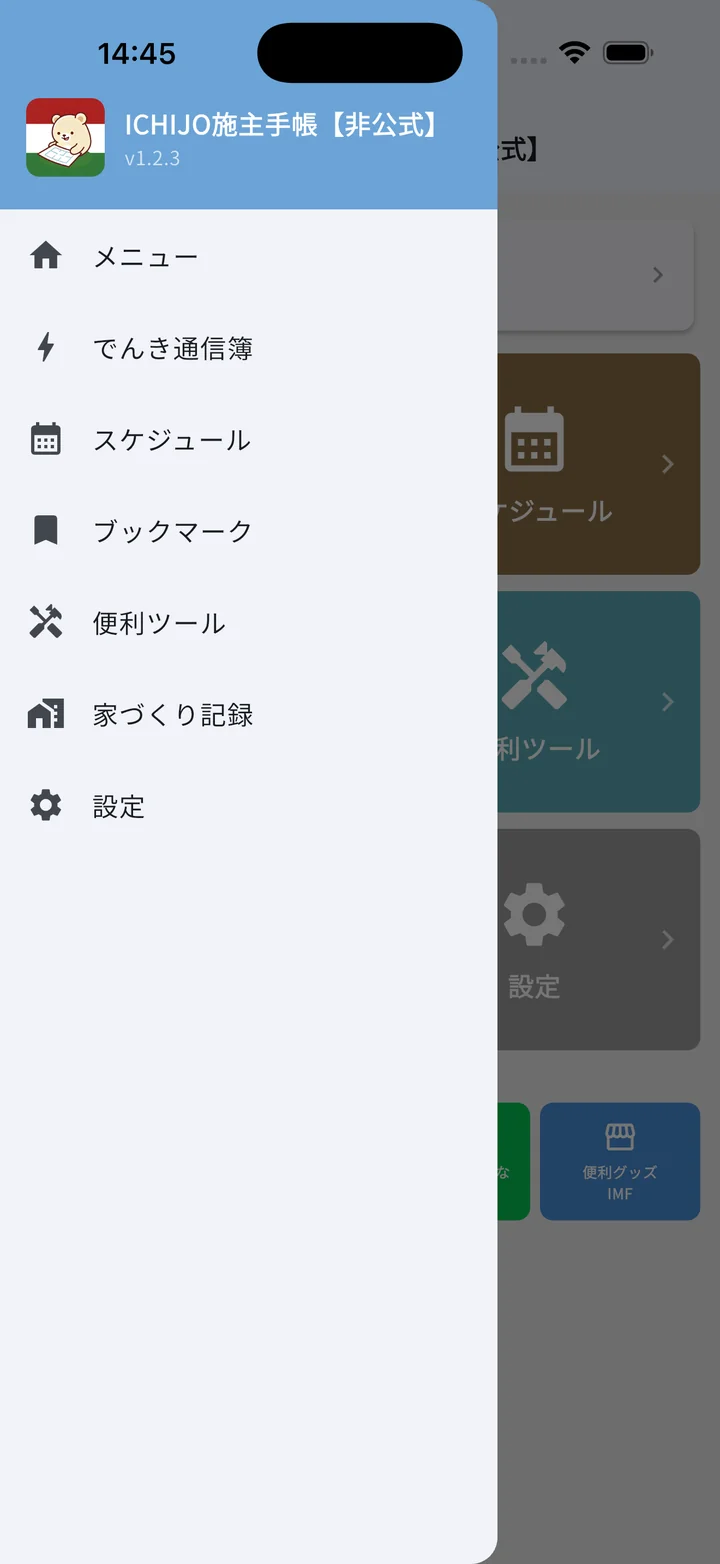
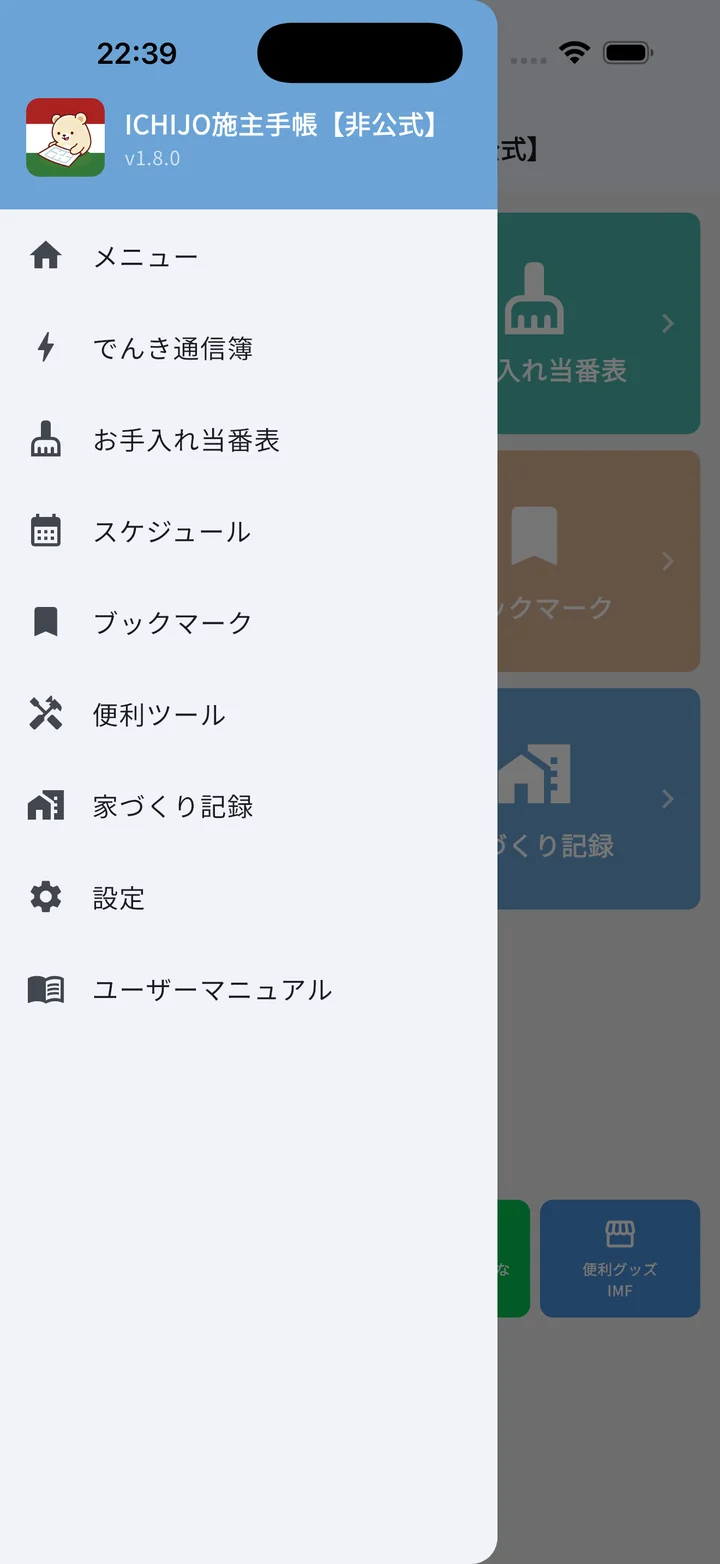
docs: マニュアルに「お手入れ当番表」を追加 (v1.8.0) (#6)
* docs: お手入れ当番表セクションを追加 (v1.8.0)

- お手入れ当番表の章を新設（画面構成/追加/消し込み/詳細シート/編集/部屋/消耗品/通知/操作リファレンス、スクショ13枚）
- 暮らしモード 7 タイル化に伴いホーム/サイドメニュー/便利ツール/設定の記述とスクショを更新
- 機能マップ・概要・目次に項目追加

* docs: 消耗品の編集フォームと購入リンクの説明を追加

* docs: 詳細シートのスクショを購入リンク表示ありに差し替え

* docs: 通知セクションに実際の通知バナーのスクショを追加

---------

diff --git a/docs/manual.html b/docs/manual.html
@@ -645,6 +645,20 @@
     <li class="sub"><a href="#electricity-actions">操作リファレンス</a></li>
   </ul>
 
+  <h4>お手入れ当番表</h4>
+  <ul>
+    <li><a href="#maintenance">お手入れ当番表</a></li>
+    <li class="sub"><a href="#maintenance-overview">画面構成</a></li>
+    <li class="sub"><a href="#maintenance-add">お手入れの追加</a></li>
+    <li class="sub"><a href="#maintenance-done">実施の記録（消し込み）</a></li>
+    <li class="sub"><a href="#maintenance-detail">詳細シート</a></li>
+    <li class="sub"><a href="#maintenance-edit">編集画面</a></li>
+    <li class="sub"><a href="#maintenance-rooms">部屋の管理</a></li>
+    <li class="sub"><a href="#maintenance-consumables">消耗品と在庫</a></li>
+    <li class="sub"><a href="#maintenance-notifications">通知</a></li>
+    <li class="sub"><a href="#maintenance-actions">操作リファレンス</a></li>
+  </ul>
+
   <h4>マイページ</h4>
   <ul>
     <li><a href="#mypage">マイページ</a></li>
@@ -709,6 +723,7 @@
   <a href="#memo" style="--tile-color:#E07B54"><div class="fmap-icon">📝</div><strong>ウチメモ+</strong><small>画面に直接ピンメモ</small></a>
   <a href="#schedule" style="--tile-color:#8B6F47"><div class="fmap-icon">📅</div><strong>スケジュール</strong><small>家づくり工程をカウントダウン</small></a>
   <a href="#electricity" style="--tile-color:#E8B931"><div class="fmap-icon">⚡</div><strong>でんき通信簿</strong><small>太陽光・蓄電池の通信簿</small></a>
+  <a href="#maintenance" style="--tile-color:#4DB6AC"><div class="fmap-icon">🧹</div><strong>お手入れ当番表</strong><small>定期お手入れの消し込み</small></a>
   <a href="#mypage" style="--tile-color:#4A6FA5"><div class="fmap-icon">👤</div><strong>マイページ</strong><small>家のスペック・SNSシェア</small></a>
 </div>
 
@@ -722,7 +737,7 @@
 <h2 id="getting-started">はじめに</h2>
 
 <h3 id="overview">このアプリについて</h3>
-<p><strong>ICHIJO施主手帳（非公式）</strong>は、一条工務店の施主が自分の打ち合わせを効率化するために作った非公式アプリです。一条公式「iサポ」で届くPDFを取り込むだけで、以下のことが片手でできます。打ち合わせ中はもちろん、入居後にも便利な機能（でんき通信簿・新居生活カウンター等）を順次拡充中です。</p>
+<p><strong>ICHIJO施主手帳（非公式）</strong>は、一条工務店の施主が自分の打ち合わせを効率化するために作った非公式アプリです。一条公式「iサポ」で届くPDFを取り込むだけで、以下のことが片手でできます。打ち合わせ中はもちろん、入居後にも便利な機能（でんき通信簿・お手入れ当番表・新居生活カウンター等）を順次拡充中です。</p>
 <ul>
   <li><strong>ドキュメント管理</strong>：図面番号ベースでグループ化</li>
   <li><strong>図面チェック</strong>：CAD・電気図面のピクセル差分を色分け表示</li>
@@ -733,6 +748,7 @@
   <li><strong>スケジュール</strong>：家づくり工程のタイムライン＆カウントダウン</li>
   <li><strong>ホームウィジェット</strong>：端末ホーム画面にカウントダウン表示</li>
   <li><strong>でんき通信簿</strong>（入居後）：太陽光・蓄電池の経済効果を可視化</li>
+  <li><strong>お手入れ当番表</strong>（入居後）：定期お手入れの消し込み管理・消耗品在庫・通知</li>
   <li><strong>便利ツール</strong>：湿度計算、外部リンク集など</li>
 </ul>
 
@@ -835,12 +851,13 @@
   </tbody>
 </table>
 
-<h3 id="home-living">暮らしモード（6タイル）</h3>
+<h3 id="home-living">暮らしモード（7タイル）</h3>
 <p>入居後のオーナー向けに、打ち合わせ系機能を隠した簡潔なレイアウト。</p>
 <table>
   <thead><tr><th>色</th><th>タイル</th><th>遷移先</th></tr></thead>
   <tbody>
     <tr><td style="color:#E8B931">●</td><td><a href="#electricity">でんき通信簿</a></td><td>でんき通信簿</td></tr>
+    <tr><td style="color:#4DB6AC">●</td><td><a href="#maintenance">お手入れ当番表</a></td><td>お手入れ当番表</td></tr>
     <tr><td style="color:#8B6F47">●</td><td><a href="#schedule">スケジュール</a></td><td>スケジュール一覧</td></tr>
     <tr><td style="color:#DEB896">●</td><td><a href="#bookmark">ブックマーク</a></td><td>ブックマーク一覧</td></tr>
     <tr><td style="color:#5CABB5">●</td><td><a href="#tools">便利ツール</a></td><td>ツール一覧</td></tr>
@@ -887,7 +904,7 @@
 <ul>
   <li>ヘッダー：アプリ名＋バージョン番号＋アイコン</li>
   <li>メニュー（家づくりモード時）：ドキュメント管理／PDF取り込み／見積り管理／図面チェック／仕様書チェック／ウチメモ+／ブックマーク／スケジュール／便利ツール／設定</li>
-  <li>メニュー（暮らしモード時）：でんき通信簿／スケジュール／ブックマーク／便利ツール／家づくり記録／設定</li>
+  <li>メニュー（暮らしモード時）：でんき通信簿／お手入れ当番表／スケジュール／ブックマーク／便利ツール／家づくり記録／設定</li>
 </ul>
 
 <div class="shot-grid">
@@ -2979,8 +2996,204 @@
 </div>
 
 <!-- ═══════════════════════════════════════════════════════ -->
-<!-- 便利ツール                                               -->
+<!-- お手入れ当番表                                           -->
 <!-- ═══════════════════════════════════════════════════════ -->
+<h2 id="maintenance">お手入れ当番表</h2>
+<div class="shot-grid">
+  <figure class="shot-phone">
+    <img src="images/home_highlight_maintenance.webp" alt="ホーム画面でお手入れ当番表タイルを選択" width="720" height="1378" loading="lazy" decoding="async">
+    <figcaption>ホーム（暮らしモード）から「お手入れ当番表」タイルをタップ</figcaption>
+  </figure>
+  <figure class="shot-phone">
+    <img src="images/maintenance_list.webp" width="720" height="1564" alt="お手入れ当番表 一覧（緊急度ビュー）" loading="lazy" decoding="async">
+    <figcaption>一覧画面（緊急度ビュー）</figcaption>
+  </figure>
+</div>
+
+<p>換気フィルターやレンジフードなど、忘れがちなおうちの定期お手入れをワンタップで記録できる機能です。よくあるお手入れ42項目をプリセット収録。消耗品の在庫管理と、お手入れ時期の通知にも対応しています。</p>
+
+<div class="callout info">
+  <p>お手入れ当番表は <strong>暮らしモード</strong> のホーム画面で前面に出てきますが、家づくりモードでは <strong>便利ツール</strong> 画面からアクセスできます。</p>
+</div>
+
+<h3 id="maintenance-overview">画面構成</h3>
+<ul>
+  <li><strong>ダッシュボード（上部）</strong>：「今すぐ」（期日が今日・期日超過）と「在庫わずか」の件数。タップするとその条件で一覧を絞り込みます（もう一度タップ、またはバナーの「解除」で戻る）</li>
+  <li><strong>ビュー切替</strong>：<strong>緊急度 / 部屋ごと</strong> の2種類</li>
+  <li><strong>緊急度ビュー</strong>：「今日実施」「今すぐ」「もうすぐ」「余裕あり」のセクションに自動分類。「もうすぐ」に入るタイミングは項目の周期に応じて自動で変わります（周期が短い項目ほど直前に表示）</li>
+  <li><strong>部屋ごとビュー</strong>：割り当てた部屋単位のグループ表示</li>
+</ul>
+
+<h4>カードの見方</h4>
+<ul>
+  <li><strong>左端のストライプ色</strong>：緊急度（赤=今すぐ／オレンジ=もうすぐ／緑=余裕あり／青緑=今日実施）</li>
+  <li><strong>右上のピル</strong>：「今日」「あと◯日」「◯日超過」の残日数</li>
+  <li><strong>チップ</strong>：割り当てた部屋と消耗品の在庫数。在庫が「残りわずかの目安」以下になると赤く表示されます</li>
+  <li><strong>下部のバー</strong>：次回予定日までの進み具合＋右端に予定日</li>
+</ul>
+
+<div class="shot-grid">
+  <figure class="shot-phone">
+    <img src="images/maintenance_list_rooms.webp" width="720" height="1564" alt="お手入れ当番表 一覧（部屋ごとビュー）" loading="lazy" decoding="async">
+    <figcaption>部屋ごとビュー</figcaption>
+  </figure>
+  <figure class="shot-phone">
+    <img src="images/maintenance_menu.webp" width="720" height="1564" alt="右上メニュー（部屋を管理／消耗品を管理／通知時刻）" loading="lazy" decoding="async">
+    <figcaption>右上メニュー</figcaption>
+  </figure>
+</div>
+
+<h3 id="maintenance-add">お手入れの追加</h3>
+<p>一覧右下の <strong>＋</strong> ボタンから追加します。カテゴリ → 項目の2段階で選ぶプリセット（42項目）と、自由入力の「カスタムを追加」が選べます。</p>
+<ul>
+  <li>プリセットの周期はあくまで目安です。追加するときに自由に変更できます</li>
+  <li>項目を選ぶと編集画面が開き、周期・前回実施日・場所・通知などをその場で設定して保存します</li>
+</ul>
+
+<div class="shot-grid">
+  <figure class="shot-phone">
+    <img src="images/maintenance_preset_categories.webp" width="720" height="1564" alt="お手入れを追加（カテゴリ選択）" loading="lazy" decoding="async">
+    <figcaption>カテゴリ選択（10カテゴリ＋カスタム）</figcaption>
+  </figure>
+  <figure class="shot-phone">
+    <img src="images/maintenance_preset_items.webp" width="720" height="1564" alt="お手入れを追加（換気・空調の項目一覧）" loading="lazy" decoding="async">
+    <figcaption>項目選択（例：換気・空調）</figcaption>
+  </figure>
+</div>
+
+<div class="callout info">
+  <p>同じ場所に同じ項目を複数追加すると、「RA排気口フィルター 交換①②」のように自動で番号が付きます。</p>
+</div>
+
+<h3 id="maintenance-done">実施の記録（消し込み）</h3>
+<ul>
+  <li><strong>カードを左にスワイプ</strong>すると「実施した」ボタンが現れます。タップすると今日の日付で記録され、次回予定日が自動計算されます</li>
+  <li>消耗品をリンクした項目は、<strong>在庫も自動で消費</strong>されます（項目ごとに設定した消費数だけ減ります）</li>
+  <li>実施直後に表示されるメッセージの<strong>「取り消す」</strong>で元に戻せます（消費した在庫も戻ります）</li>
+  <li>同じ日に2回目の「実施した」をすると確認ダイアログが出ます。本当に2回実施した場合だけ記録してください</li>
+  <li>今日実施した項目は、緊急度ビュー先頭の「今日実施」セクションに集まります</li>
+</ul>
+
+<h3 id="maintenance-detail">詳細シート</h3>
+<p>カードをタップすると、画面下から詳細シートが開きます。</p>
+<ul>
+  <li><strong>タイトル右のアイコン</strong>：編集（鉛筆）／削除（ゴミ箱）。項目を削除すると実施記録も一緒に消えます（共有している消耗品の在庫は残ります）</li>
+  <li><strong>カウントダウンピル</strong>：次回予定日と残日数</li>
+  <li><strong>消耗品・在庫</strong>：−／＋で在庫を補充・修正できます。「実施した」での自動消費とは別に、買い足したときなどに使います</li>
+  <li><strong>購入ページを開く</strong>：消耗品に<a href="#maintenance-consumables">購入リンク</a>を設定しておくと、ここからブラウザで購入ページを開けます。在庫が切れたらその場で買い足せます</li>
+  <li><strong>下部の「実施した」</strong>：スワイプと同じ消し込み操作</li>
+</ul>
+
+<div class="shot-grid">
+  <figure class="shot-phone">
+    <img src="images/maintenance_detail_sheet.webp" width="720" height="1564" alt="お手入れ詳細シート（在庫±・購入ページを開く・実施した）" loading="lazy" decoding="async">
+    <figcaption>詳細シート（在庫±・購入リンク・実施した）</figcaption>
+  </figure>
+</div>
+
+<h3 id="maintenance-edit">編集画面</h3>
+<p>項目の設定をまとめて変更できます。上部に「次回は ◯◯ ごろ」のプレビューが表示され、周期や前回実施日を変えるとすぐ反映されます。</p>
+<ul>
+  <li><strong>場所</strong>：部屋を割り当てます（指定しない／既存の部屋／新しく作成）</li>
+  <li><strong>周期</strong>：数値＋単位（週／ヶ月／年）</li>
+  <li><strong>前回実施日</strong>：分かれば入力。未設定なら登録日を起点に次回を計算します</li>
+  <li><strong>通知</strong>：しつこく通知／1回通知／通知オフ（詳しくは<a href="#maintenance-notifications">通知</a>へ）</li>
+  <li><strong>予定日の寄せ方</strong>：次回予定日を指定の曜日や土日・祝日に寄せられます（なし／指定曜日／土日祝）</li>
+  <li><strong>消耗品・在庫</strong>：項目で使う消耗品をリンクし、1回の実施で消費する数（×N）を設定。新規の消耗品は「いまある在庫」も入力できます</li>
+  <li><strong>メモ</strong>：自由記入（品番や購入先のひかえなどに）</li>
+</ul>
+
+<div class="shot-grid">
+  <figure class="shot-phone">
+    <img src="images/maintenance_edit_top.webp" width="720" height="1564" alt="お手入れ編集画面（上部：プレビュー・場所・周期・前回実施日・通知）" loading="lazy" decoding="async">
+    <figcaption>編集画面（上：場所・周期・通知）</figcaption>
+  </figure>
+  <figure class="shot-phone">
+    <img src="images/maintenance_edit_bottom.webp" width="720" height="1564" alt="お手入れ編集画面（下部：予定日の寄せ方・消耗品・メモ）" loading="lazy" decoding="async">
+    <figcaption>編集画面（下：寄せ方・消耗品・メモ）</figcaption>
+  </figure>
+</div>
+
+<div class="callout info">
+  <p>プリセット項目は名前とカテゴリが固定です（カスタム項目のみ変更できます）。</p>
+</div>
+
+<h3 id="maintenance-rooms">部屋の管理</h3>
+<p>右上メニューの「部屋を管理」から。プリセット25種（玄関〜庭）＋フロア（1〜3階）＋自由入力で部屋を登録し、お手入れ項目に割り当てられます。</p>
+<ul>
+  <li>同じフロアに同じ部屋を複数作ると「洋室①②」のように自動で番号が付きます</li>
+  <li><strong>タップで編集、長押しで削除</strong>。部屋を削除しても項目は消えず、場所が「指定なし」に戻ります</li>
+</ul>
+
+<div class="shot-grid">
+  <figure class="shot-phone">
+    <img src="images/maintenance_room_manage.webp" width="720" height="1564" alt="部屋を管理（フロア別一覧・割当件数つき）" loading="lazy" decoding="async">
+    <figcaption>部屋を管理（フロア別・割当件数つき）</figcaption>
+  </figure>
+  <figure class="shot-phone">
+    <img src="images/maintenance_room_add.webp" width="720" height="1564" alt="部屋を追加（フロア＋部屋チップ）" loading="lazy" decoding="async">
+    <figcaption>部屋を追加</figcaption>
+  </figure>
+</div>
+
+<h3 id="maintenance-consumables">消耗品と在庫</h3>
+<p>フィルターなどの消耗品は、<strong>在庫がアプリ全体で共有</strong>されます。同じ消耗品を複数の項目にリンクすると、どの項目で実施しても同じ在庫から減ります。</p>
+<ul>
+  <li><strong>消耗品を管理</strong>（右上メニュー）：全消耗品の在庫を一覧し、−／＋でクイック補充。タップで編集、長押しで削除</li>
+  <li><strong>残りわずかの目安</strong>：在庫がこの数以下になると赤く表示され、ダッシュボードの「在庫わずか」に数えられます（はじめは 1、変更できます）</li>
+  <li><strong>購入リンク（任意）</strong>：消耗品の編集画面に通販サイト等の URL を控えておくと、<a href="#maintenance-detail">詳細シート</a>に「購入ページを開く」ボタンが表示されます</li>
+</ul>
+
+<div class="shot-grid">
+  <figure class="shot-phone">
+    <img src="images/maintenance_consumable_manage.webp" width="720" height="1564" alt="消耗品を管理（在庫一覧・在庫わずかは赤字）" loading="lazy" decoding="async">
+    <figcaption>消耗品を管理（在庫わずかは赤字）</figcaption>
+  </figure>
+  <figure class="shot-phone">
+    <img src="images/maintenance_consumable_edit.webp" width="720" height="1564" alt="消耗品を編集（在庫数・残りわずかの目安・購入リンク）" loading="lazy" decoding="async">
+    <figcaption>消耗品を編集（在庫数・目安・購入リンク）</figcaption>
+  </figure>
+</div>
+
+<h3 id="maintenance-notifications">通知</h3>
+<p>お手入れ時期を端末の通知でお知らせします。項目ごとに編集画面で設定します。</p>
+<ul>
+  <li><strong>しつこく通知</strong>：実施を記録するまで、毎日通知します（最大14日間）</li>
+  <li><strong>1回通知</strong>：1回だけ通知します</li>
+  <li><strong>通知オフ</strong>：通知しません</li>
+  <li><strong>何日前に通知</strong>：通知が始まる日を予定日の◯日前にずらせます（0 なら予定日当日から）</li>
+  <li><strong>通知時刻</strong>：すべての項目で共通です。右上メニューの「通知時刻」または編集画面から変更できます（はじめは 9:00）</li>
+  <li><strong>通知をタップ</strong>すると、その項目の詳細シートが直接開きます</li>
+</ul>
+
+<div class="shot-grid">
+  <figure class="shot-phone">
+    <img src="images/maintenance_notification.webp" width="720" height="1564" alt="お手入れ通知の例（項目名と場所が表示される）" loading="lazy" decoding="async">
+    <figcaption>通知の例（項目名＋場所）</figcaption>
+  </figure>
+  <figure class="shot-phone">
+    <img src="images/maintenance_notif_time.webp" width="720" height="1564" alt="通知時刻の変更（タイムピッカー）" loading="lazy" decoding="async">
+    <figcaption>通知時刻の変更（全項目共通）</figcaption>
+  </figure>
+</div>
+
+<div class="callout warn">
+  <p>通知の許可（OSのダイアログ）は、通知をオンにした項目を保存したときや、通知時刻を変更したときに表示されます。許可しなかった場合も、あとからアプリ内の案内で端末の設定画面を開いて変更できます。なお、省電力の仕組みの都合で、通知は設定時刻から数分前後することがあります。</p>
+</div>
+
+<h3 id="maintenance-actions">操作リファレンス</h3>
+<div class="action-box">
+  <div class="action-row"><strong>カードを左にスワイプ</strong><span>「実施した」で消し込み（在庫も自動消費）</span></div>
+  <div class="action-row"><strong>カードをタップ</strong><span>詳細シートを開く</span></div>
+  <div class="action-row"><strong>カードを長押し</strong><span>項目を削除（確認ダイアログ）</span></div>
+  <div class="action-row"><strong>ダッシュボードをタップ</strong><span>「今すぐ」「在庫わずか」で絞り込み（再タップで解除）</span></div>
+  <div class="action-row"><strong>緊急度／部屋ごと</strong><span>一覧の表示切替</span></div>
+  <div class="action-row"><strong>＋ボタン</strong><span>お手入れの追加（プリセット／カスタム）</span></div>
+  <div class="action-row"><strong>右上メニュー</strong><span>部屋を管理／消耗品を管理／通知時刻</span></div>
+  <div class="action-row"><strong>シートのタイトル右アイコン</strong><span>編集（鉛筆）／削除（ゴミ箱）</span></div>
+  <div class="action-row"><strong>部屋・消耗品の行</strong><span>タップで編集、長押しで削除</span></div>
+</div>
+
 <!-- ═══════════════════════════════════════════════════════ -->
 <!-- マイページ                                               -->
 <!-- ═══════════════════════════════════════════════════════ -->
@@ -3226,13 +3439,14 @@
 <h4>家づくりモード時</h4>
 <ul>
   <li><strong>でんき通信簿</strong>（アプリ内）</li>
+  <li><strong>お手入れ当番表</strong>（アプリ内）</li>
   <li><strong>湿度計算ツール</strong>（アプリ内）</li>
   <li><strong>熱負荷計算ツール</strong>（外部：UA値から熱負荷をシミュレーション）</li>
   <li><strong>エアコン仕様比較表</strong>（外部：一条で選べるエアコンのスペック一覧）</li>
 </ul>
 
 <h4>暮らしモード時</h4>
-<p>暮らしモードでは <strong>でんき通信簿</strong> がホーム画面のタイルとして前面に出るため、便利ツール一覧には含まれません。それ以外のツールは共通です。</p>
+<p>暮らしモードでは <strong>でんき通信簿</strong> と <strong>お手入れ当番表</strong> がホーム画面のタイルとして前面に出るため、便利ツール一覧には含まれません。それ以外のツールは共通です。</p>
 
 <div class="shot-grid">
   <figure class="shot-phone">
@@ -3241,11 +3455,11 @@
   </figure>
   <figure class="shot-phone">
     <img src="images/tools_list.webp" width="720" height="1564" alt="便利ツール一覧（家づくりモード）" loading="lazy" decoding="async">
-    <figcaption>家づくりモード版（でんき通信簿あり）</figcaption>
+    <figcaption>家づくりモード版（でんき通信簿・お手入れ当番表あり）</figcaption>
   </figure>
   <figure class="shot-phone">
     <img src="images/tools_list_living.webp" width="720" height="1564" alt="便利ツール一覧（暮らしモード）" loading="lazy" decoding="async">
-    <figcaption>暮らしモード版（でんき通信簿なし）</figcaption>
+    <figcaption>暮らしモード版（でんき通信簿・お手入れ当番表なし）</figcaption>
   </figure>
 </div>
 
@@ -3402,7 +3616,7 @@
 <p>家づくりモード ↔ 暮らしモードを切り替えるトグルスイッチ。切り替えるとホーム画面のタイル構成、サイドメニュー、便利ツール一覧が変わります。</p>
 <ul>
   <li><strong>家づくりモード</strong>（契約〜引き渡しまでの施主向け）：10タイル（ドキュメント管理・図面チェック・見積り管理 等を前面に）</li>
-  <li><strong>暮らしモード</strong>（入居後向け）：6タイル（でんき通信簿・スケジュール・家づくり記録 等を前面に、打ち合わせ系機能は非表示）</li>
+  <li><strong>暮らしモード</strong>（入居後向け）：7タイル（でんき通信簿・お手入れ当番表・スケジュール・家づくり記録 等を前面に、打ち合わせ系機能は非表示）</li>
 </ul>
 <p>詳細は <a href="#home-ieduzukuri">家づくりモード</a> ／ <a href="#home-living">暮らしモード</a> を参照。</p>
 
